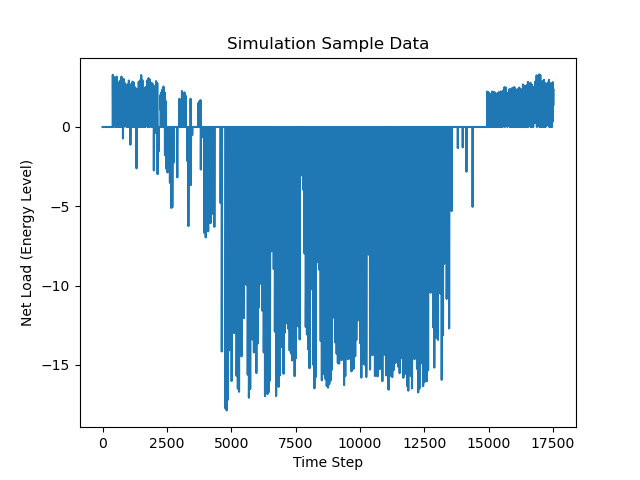
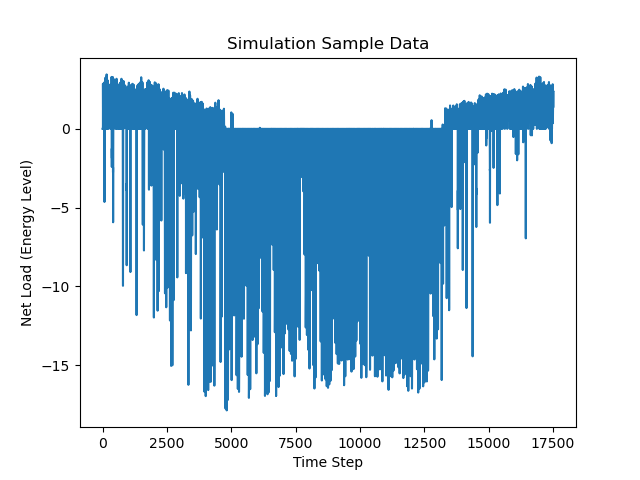
System Build
1. Convert to all OOP
2. Workflow down
3. Grid search down

diff --git a/LEO_Power/EnergySystem.py b/LEO_Power/EnergySystem.py
@@ -1,8 +1,10 @@
+import numpy as np
 import pandas as pd
 import matplotlib.pyplot as plt
 from SolarAsset import SolarAsset
 from Load import Load
 from StorageAsset import StorageAsset
+from tqdm import tqdm
 
 
 # We want
@@ -24,10 +26,10 @@ class EnergySystem():
 
         # solar profile
 
-
-        for k,i in enumerate(self.solar):
-            generation = SolarAsset(i)
-            if k == 0:
+        # for i,k in enumerate(tqdm(self.solar,leave=True,desc="Non-dispatchable Profile:")):
+        for i, k in enumerate(self.solar):
+            generation = SolarAsset(k)
+            if i == 0:
                 generation_profile = generation.load_profile()
             else:
                 generation_profile += generation.load_profile()
@@ -36,7 +38,8 @@ class EnergySystem():
         #dispatchable -- battery
 
         net_nondispatchable_load = load_profile['Energy'] - generation_profile['Energy']
-        for k,i in enumerate(self.dispatchable):
+        # for i in tqdm(self.dispatchable, leave=True, desc="Dispatchable Profile:"):
+        for i in self.dispatchable:
             storage = StorageAsset(net_nondispatchable_load, i[0], i[1])
             storage_profile = storage.get_output()
             net_nondispatchable_load = net_nondispatchable_load - storage_profile
@@ -51,42 +54,68 @@ class EnergySystem():
         # plt.savefig('e4.png')
         plt.show()
 
-solar = [30,17.5]
+
+# Simulation
+# solar = [30,17.5]
+# load = True
+# storage = [[7.5,20],[7.5,20]]
+# LEO = EnergySystem(load,solar,storage)
+# net_profile = LEO.simulate()
+# LEO.visualize(net_profile)
+
+#Grid search 2d
 load = True
-storage = [[7.5,20],[7.5,20]]
+solar_search = list(range(35,35+50,1))
+storage_search_power = list(range(10,10+50,1))
+metric_lis = []
+setting = []
+for solar in tqdm(solar_search,desc="In Progress:"):
+    for stoage_power in storage_search_power:
+        LEO = EnergySystem(load, [solar], [[stoage_power,stoage_power*3]])
+        net_profile = LEO.simulate()
+        energy_metric = sum(net_profile*0.5)
+        metric_lis.append(energy_metric)
+        setting.append([solar,stoage_power])
 
-LEO = EnergySystem(load,solar,storage)
-net_profile = LEO.simulate()
-LEO.visualize(net_profile)
 
-# solar_farm = SolarAsset(30)
-# solar_panel = SolarAsset(17.5)
+m = np.array(metric_lis)
+s = np.array(setting)
+
+
+np.save('Result/2d_search_metric_test1.npy', m)
+np.save('Result/2d_search_setting_test1.npy', s)
+
+
+# for test
+# if __name__ == 'main':
+#     solar_farm = SolarAsset(30)
+#     solar_panel = SolarAsset(17.5)
 #
-# solar_profile = solar_farm.load_profile()+solar_panel.load_profile()
+#     solar_profile = solar_farm.load_profile()+solar_panel.load_profile()
 #
-# # get demand profile
-# load = Load()
-# load_profile = load.load_profile()
-#
-#
-# #get ned load and feed to storage
-# net_nondispatchable_load = load_profile['Energy'] - solar_profile['Energy']
+#     # get demand profile
+#     load = Load()
+#     load_profile = load.load_profile()
 #
 #
-# #get storage output
-# local_battery = StorageAsset(net_nondispatchable_load,7.5,20)
-# local_battery_profile = local_battery.get_output()
+#     #get ned load and feed to storage
+#     net_nondispatchable_load = load_profile['Energy'] - solar_profile['Energy']
 #
-# net_nondispatchable_load = net_nondispatchable_load - local_battery_profile
-# hydrogen = StorageAsset(net_nondispatchable_load,7.5,20)
-# hydrogen_profile = hydrogen.get_output()
-# net_nondispatchable_load = net_nondispatchable_load - hydrogen_profile
 #
-# #visualize
-# plt.plot(net_nondispatchable_load)
-# plt.xlabel('Time Step')
-# plt.ylabel('Net Load (Energy Level)')
-# plt.title('Simulation Sample Data')
-# plt.savefig('e4.png')
-# plt.show()
+#     #get storage output
+#     local_battery = StorageAsset(net_nondispatchable_load,7.5,20)
+#     local_battery_profile = local_battery.get_output()
+#
+#     net_nondispatchable_load = net_nondispatchable_load - local_battery_profile
+#     hydrogen = StorageAsset(net_nondispatchable_load,7.5,20)
+#     hydrogen_profile = hydrogen.get_output()
+#     net_nondispatchable_load = net_nondispatchable_load - hydrogen_profile
+#
+#     #visualize
+#     plt.plot(net_nondispatchable_load)
+#     plt.xlabel('Time Step')
+#     plt.ylabel('Net Load (Energy Level)')
+#     plt.title('Simulation Sample Data')
+#     # plt.savefig('e4.png')
+#     plt.show()
 

diff --git a/LEO_Power/Optimisation.py b/LEO_Power/Optimisation.py
@@ -1,0 +1,25 @@
+from EnergySystem import EnergySystem
+from tqdm import tqdm
+import numpy as np
+
+def basic_simulation__visualization(load,solar,storage):
+    LEO = EnergySystem(load,solar,storage)
+    net_profile = LEO.simulate()
+    LEO.visualize(net_profile)
+    return net_profile
+
+def grid_search_2d(solar_search,storage_search_power,load=True):
+    #Assume storage parameters (power/energy) are one-to-one mapped(3)
+    metric_lis = []
+    setting = []
+    for solar in tqdm(solar_search, desc="In Progress:"):
+        for stoage_power in storage_search_power:
+            LEO = EnergySystem(load, [solar], [[stoage_power, stoage_power * 3]])
+            net_profile = LEO.simulate()
+            energy_metric = sum(net_profile * 0.5)
+            metric_lis.append(energy_metric)
+            setting.append([solar, stoage_power])
+
+    m = np.array(metric_lis)
+    s = np.array(setting)
+    return m,s

diff --git a/LEO_Power/Demo.py b/LEO_Power/Demo.py
@@ -1,0 +1,15 @@
+import Optimisation as op
+import numpy as np
+
+# Basic simulation
+# solar = [30,17.5]
+# load = True
+# storage = [[7.5,20],[7.5,20]]
+# net_profile = op.basic_simulation__visualization(load,solar,storage)
+
+#grid search 2d test
+solar_search = list(range(35, 35 + 50, 1))
+storage_search_power = list(range(10, 10 + 50, 1))
+[m,s] = op.grid_search_2d(solar_search,storage_search_power,load=True)
+np.save('Result/2d_search_metric_test1.npy', m)
+np.save('Result/2d_search_setting_test1.npy', s)
